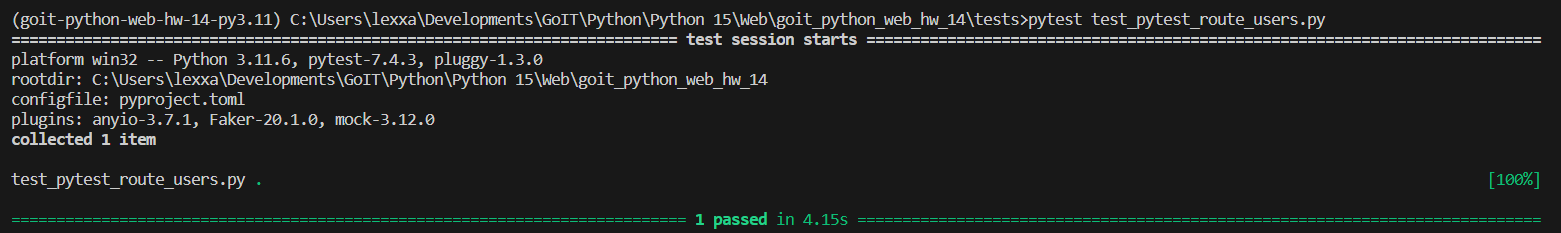
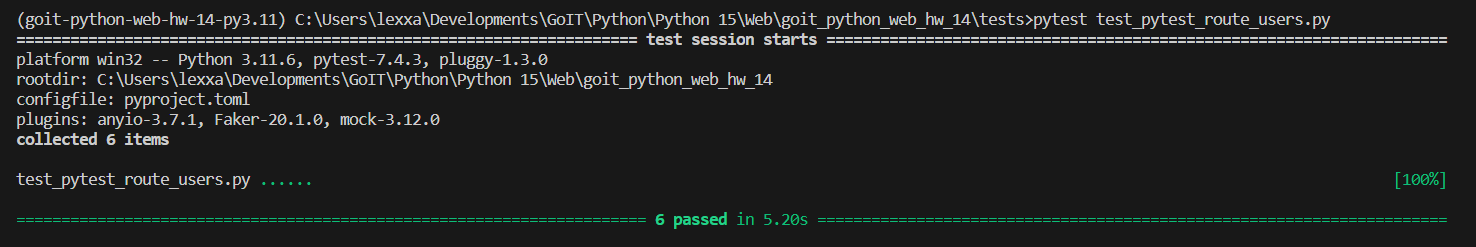
fix db path

diff --git a/tests/test_pytest_route_users.py b/tests/test_pytest_route_users.py
@@ -1,15 +1,10 @@
 import os
 from pathlib import Path
-import sys
 from unittest.mock import MagicMock
 
 hw_path: str = str(Path(__file__).resolve().parent.parent.joinpath("hw14"))
-# sys.path.append(hw_path)
 os.environ["PATH"] += os.pathsep + hw_path
 os.environ["PYTHONPATH"] += os.pathsep + hw_path
-
-#print(os.environ["PATH"])
-#print(os.environ["PYTHONPATH"])
 
 from src.database.models import User
 
@@ -27,54 +22,54 @@ def test_create_user(client, user, monkeypatch):
     assert "id" in data["user"]
 
 
-# def test_repeat_create_user(client, user):
-#     response = client.post(
-#         "/api/auth/signup",
-#         json=user,
-#     )
-#     assert response.status_code == 409, response.text
-#     data = response.json()
-#     assert data["detail"] == "Account already exists"
+def test_repeat_create_user(client, user):
+    response = client.post(
+        "/api/auth/signup",
+        json=user,
+    )
+    assert response.status_code == 409, response.text
+    data = response.json()
+    assert data["detail"] == "Account already exists"
 
 
-# def test_login_user_not_confirmed(client, user):
-#     response = client.post(
-#         "/api/auth/login",
-#         data={"username": user.get('email'), "password": user.get('password')},
-#     )
-#     assert response.status_code == 401, response.text
-#     data = response.json()
-#     assert data["detail"] == "Email not confirmed"
+def test_login_user_not_confirmed(client, user):
+    response = client.post(
+        "/api/auth/login",
+        data={"username": user.get('email'), "password": user.get('password')},
+    )
+    assert response.status_code == 401, response.text
+    data = response.json()
+    assert data["detail"] == "Not confirmed"
 
 
-# def test_login_user(client, session, user):
-#     current_user: User = session.query(User).filter(User.email == user.get('email')).first()
-#     current_user.confirmed = True
-#     session.commit()
-#     response = client.post(
-#         "/api/auth/login",
-#         data={"username": user.get('email'), "password": user.get('password')},
-#     )
-#     assert response.status_code == 200, response.text
-#     data = response.json()
-#     assert data["token_type"] == "bearer"
+def test_login_user(client, session, user):
+    current_user: User = session.query(User).filter(User.email == user.get('email')).first()
+    current_user.confirmed = True
+    session.commit()
+    response = client.post(
+        "/api/auth/login",
+        data={"username": user.get('email'), "password": user.get('password')},
+    )
+    assert response.status_code == 200, response.text
+    data = response.json()
+    assert data["token_type"] == "bearer"
 
 
-# def test_login_wrong_password(client, user):
-#     response = client.post(
-#         "/api/auth/login",
-#         data={"username": user.get('email'), "password": 'password'},
-#     )
-#     assert response.status_code == 401, response.text
-#     data = response.json()
-#     assert data["detail"] == "Invalid password"
+def test_login_wrong_password(client, user):
+    response = client.post(
+        "/api/auth/login",
+        data={"username": user.get('email'), "password": 'password'},
+    )
+    assert response.status_code == 401, response.text
+    data = response.json()
+    assert data["detail"] == "Invalid credentianal"
 
 
-# def test_login_wrong_email(client, user):
-#     response = client.post(
-#         "/api/auth/login",
-#         data={"username": 'email', "password": user.get('password')},
-#     )
-#     assert response.status_code == 401, response.text
-#     data = response.json()
-#     assert data["detail"] == "Invalid email"
+def test_login_wrong_email(client, user):
+    response = client.post(
+        "/api/auth/login",
+        data={"username": 'email', "password": user.get('password')},
+    )
+    assert response.status_code == 401, response.text
+    data = response.json()
+    assert data["detail"] == "Invalid credentianal"

diff --git a/tests/conftest.py b/tests/conftest.py
@@ -8,7 +8,9 @@ from fastapi.testclient import TestClient
 from sqlalchemy import create_engine
 from sqlalchemy.orm import sessionmaker
 
-hw_path: str = str(Path(__file__).resolve().parent.parent.joinpath("hw14"))
+curr_path = Path(__file__).resolve().parent
+hw_path: str = str(curr_path.parent.joinpath("hw14"))
+
 sys.path.append(hw_path)
 # print(f"{hw_path=}", sys.path)
 os.environ["PYTHONPATH"] += os.pathsep + hw_path
@@ -17,8 +19,8 @@ from main import app
 from src.database.models import Base
 from src.database.db import get_db
 
-
-SQLALCHEMY_DATABASE_URL = "sqlite:///./test.db"
+db_path = curr_path / "test.sqlite"
+SQLALCHEMY_DATABASE_URL = f"sqlite:///{db_path}"  
 
 engine = create_engine(SQLALCHEMY_DATABASE_URL, connect_args={"check_same_thread": False})
 TestingSessionLocal = sessionmaker(autocommit=False, autoflush=False, bind=engine)

diff --git a/tests/test_pytest_route_contacts.py b/tests/test_pytest_route_contacts.py
@@ -1,0 +1,9 @@
+import os
+from pathlib import Path
+from unittest.mock import MagicMock
+
+hw_path: str = str(Path(__file__).resolve().parent.parent.joinpath("hw14"))
+os.environ["PATH"] += os.pathsep + hw_path
+os.environ["PYTHONPATH"] += os.pathsep + hw_path
+
+from src.database.models import User
